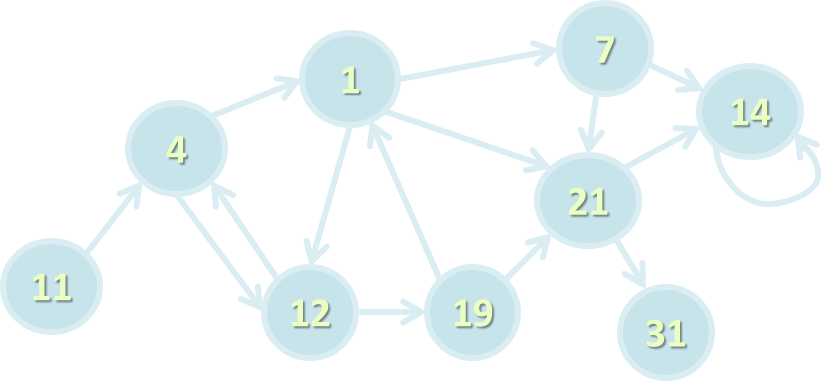
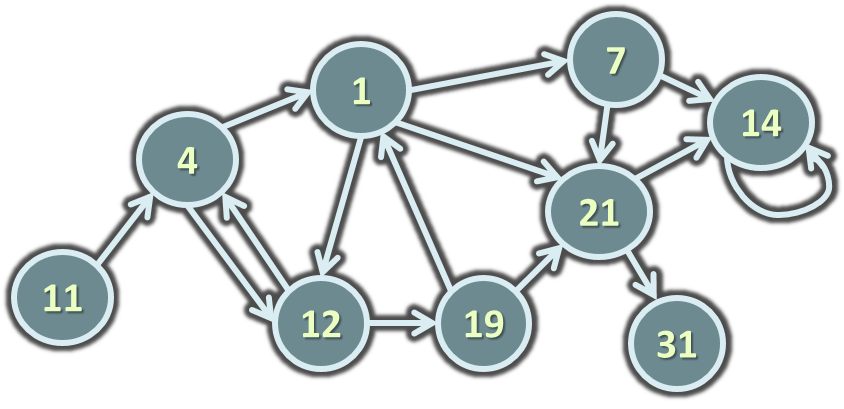
Added glow to all images Added table of contents

diff --git a/13. Graphs/README.md b/13. Graphs/README.md
@@ -1,3 +1,5 @@
-## 11. Graphs and Graph Algorithms
-### [View Presentation online](https://rawgit.com/TelerikAcademy/Data-Structures-and-Algorithms/master/11.%20Graphs-and-Graph-Algorithms/slides/index.html)
+## Graphs and Graph Algorithms
+### [View Presentation online](https://rawgit.com/TelerikAcademy/Data-Structures-and-Algorithms/master/13.%20Graphs/slides/index.html)
 ### Table of Contents
+* Graph Definitions and Terminology
+* Representing Graphs 
